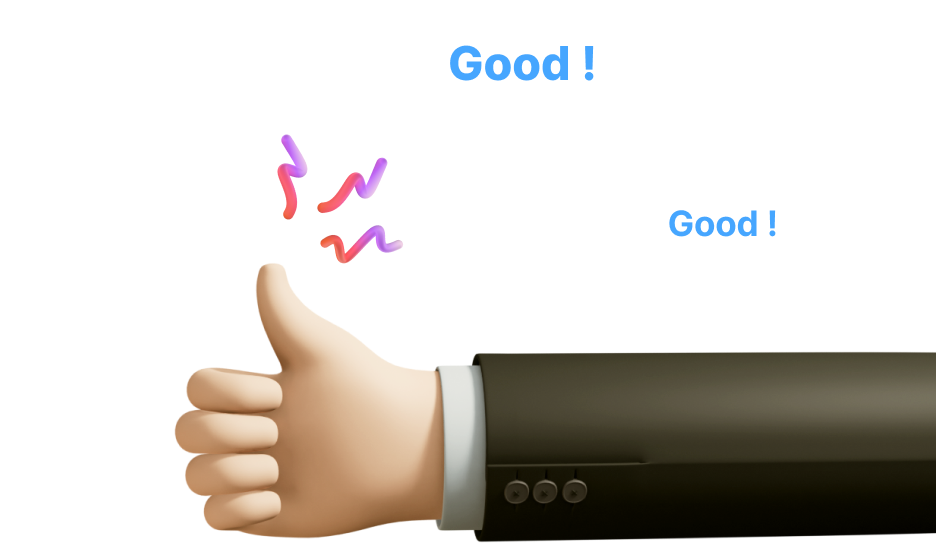
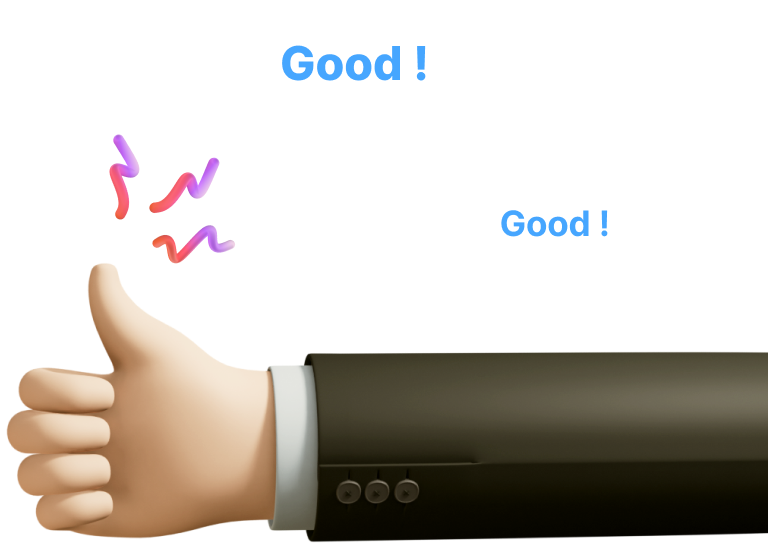
💄[design] Guide 이미지 크기 수정

diff --git a/screens/more/GuideScreen.tsx b/screens/more/GuideScreen.tsx
@@ -9,12 +9,12 @@ const GuideScreen = () => {
             <ScrollView>
                 <Image style={styles.background} source={require('../../assets/more/guide-back.png')}/>
                 <View style={styles.header}>
-                    <View>
+                    <View style={styles.titles}>
                         <Image style={styles.content} source={require('../../assets/more/good.png')}/>
-                        <Text style={styles.content}>이용 가이드</Text>
+                        <Text style={styles.contentText}>이용 가이드</Text>
                         <Text style={styles.title}>헌옷 수거하고{"\n"}새옷 받기!</Text>
                     </View>
-                    <Image source={require('../../assets/more/hand.png')}/>
+                    <Image source={require('../../assets/more/hand.png')} style={styles.hand}/>
                 </View>
                 <View>
                     <Image style={styles.step} source={require('../../assets/more/step1.png')}/>
@@ -88,7 +88,7 @@ const styles = StyleSheet.create({
     },
     background: {
         width: '100%',
-        height: '25%',
+        height: 240,
         margin: 0,
         padding: 0,
     },
@@ -100,6 +100,10 @@ const styles = StyleSheet.create({
         marginLeft: '4%',
         marginTop: '9%',
     },
+    titles: {
+        marginLeft: 10,
+        marginTop: 8,
+    },
     title: {
         fontSize: 26,
         fontWeight: 'bold',
@@ -107,14 +111,24 @@ const styles = StyleSheet.create({
         color: 'white',
     },
     content: {
+        width: 60,
+        height: 27,
+    },
+    contentText: {
         fontSize: 18,
         color: '#333',
-        marginVertical: 3,
+        marginVertical: 2,
         color: 'white',
+    },
+    hand: {
+        width: 200,
+        height: 150,
     },
     step: {
         alignSelf: 'center',
         marginTop: '10%',
+        width: 74,
+        height: 30,
     },
     guide: {
         borderRadius: 15,
